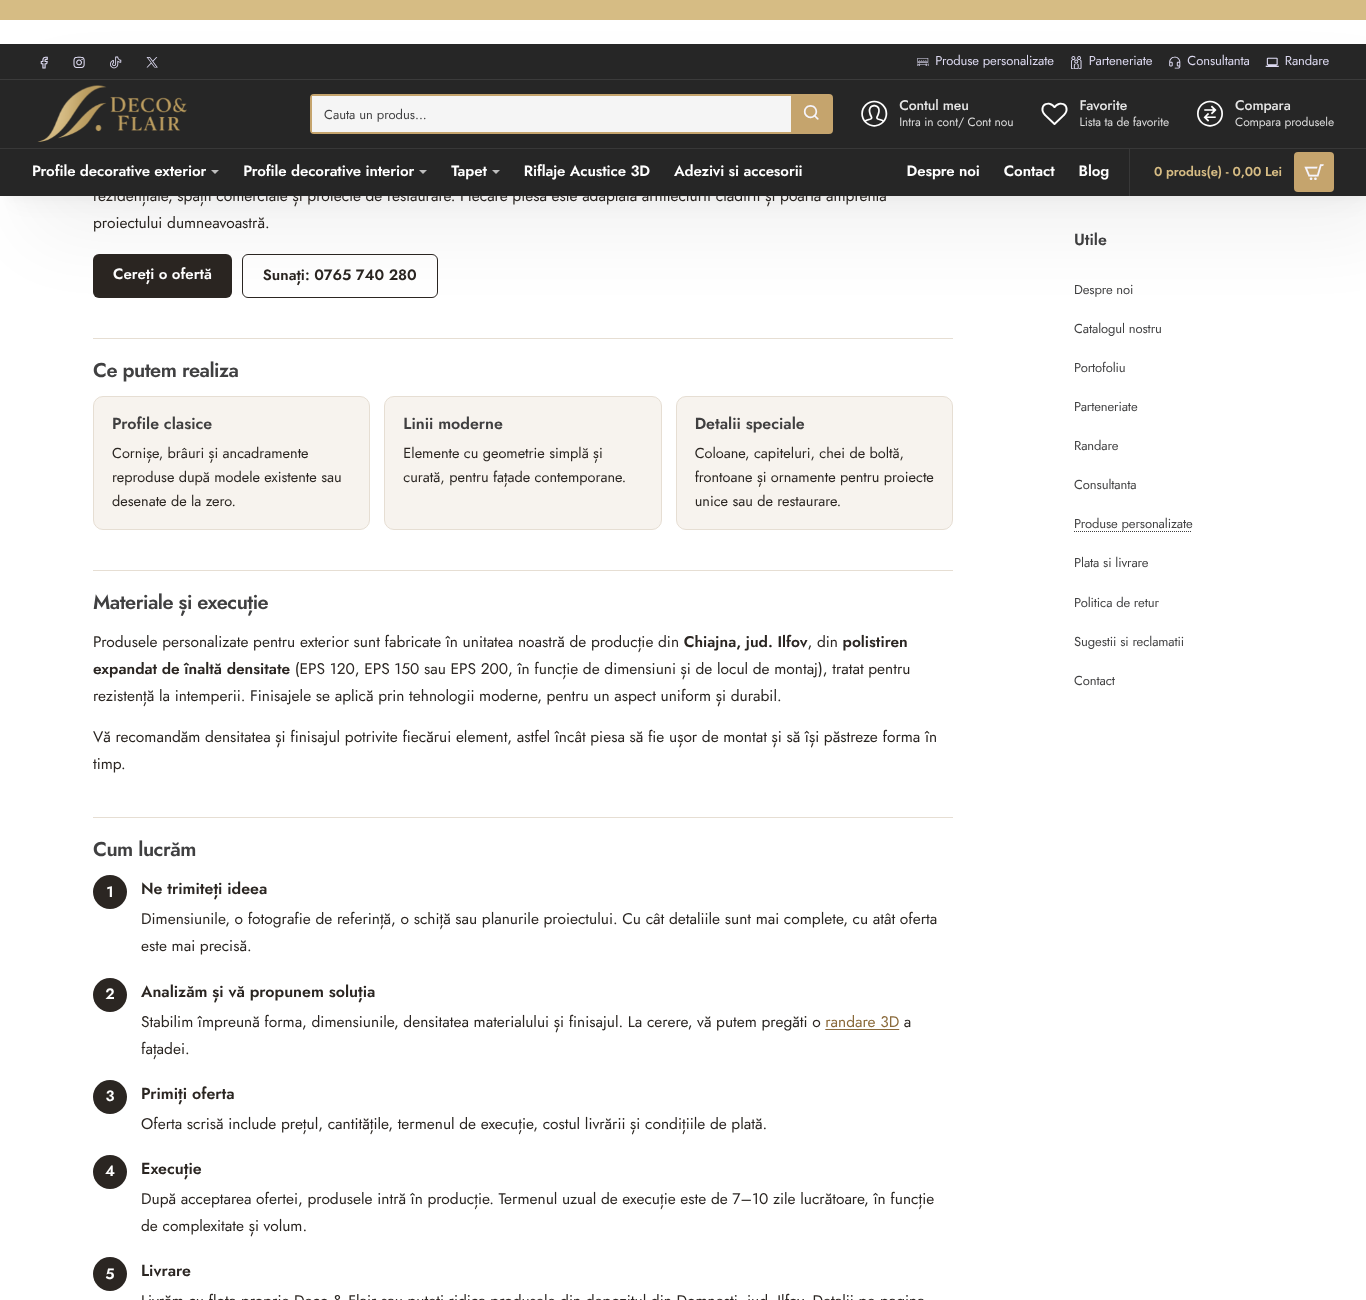
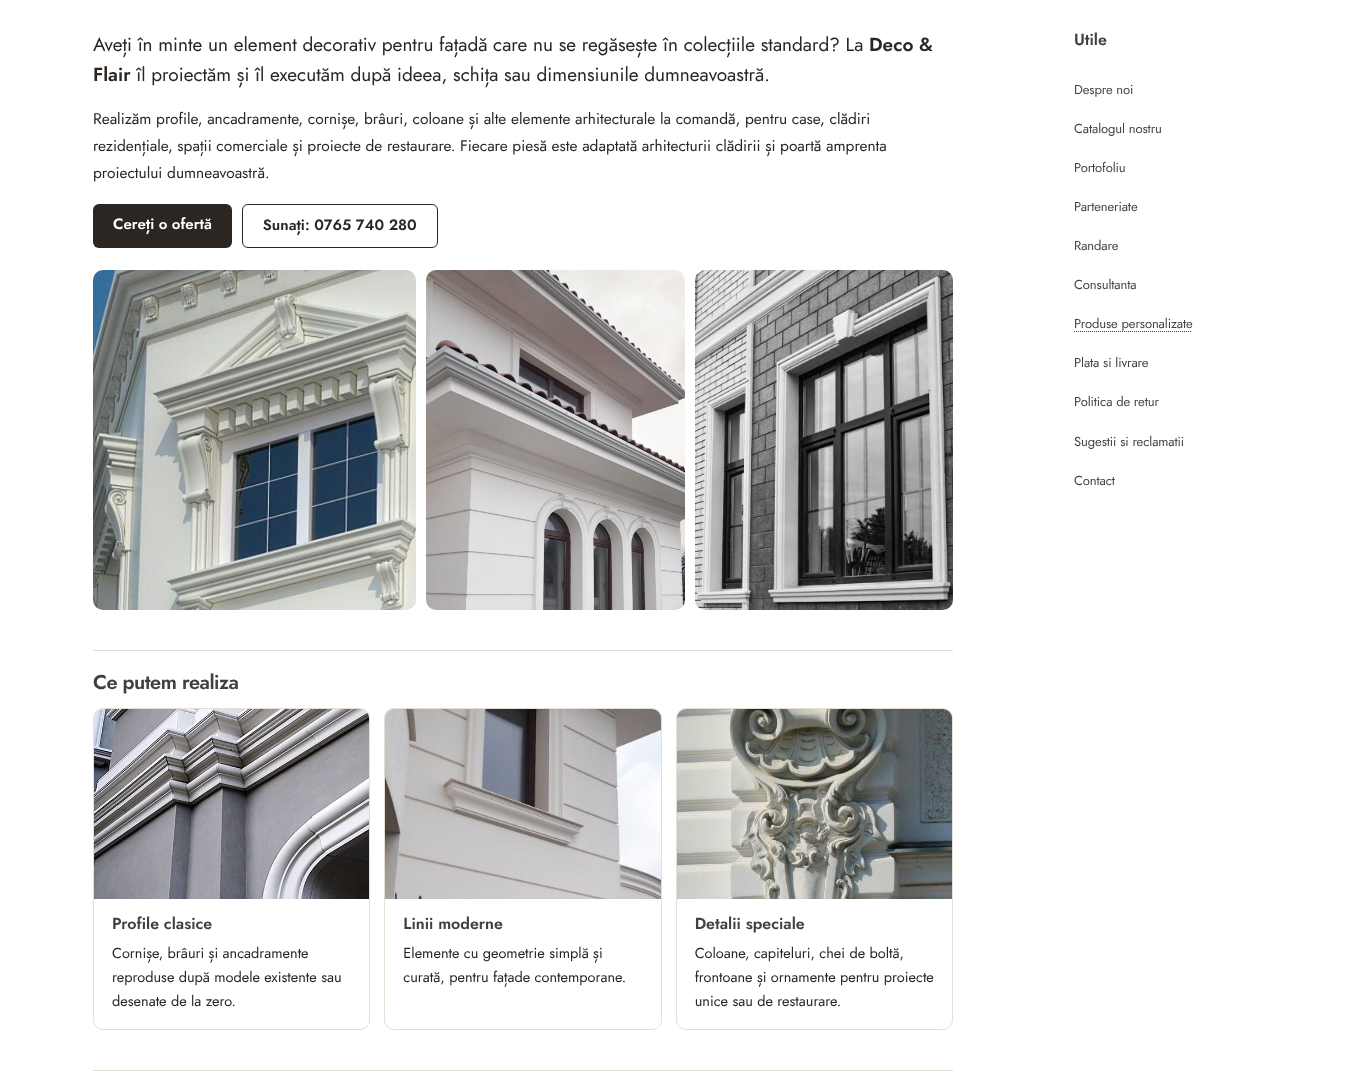
Produse personalizate: imagini din catalogul de exterior (colaj, carduri, galerie)
Claude-Session: https://claude.ai/code/session_01S369rekPyUEkSf6wTcLjCo

diff --git a/decoflair-termeni-conditii/produse-personalizate.html b/decoflair-termeni-conditii/produse-personalizate.html
@@ -28,7 +28,29 @@
 .df-pp .df-pp-box h2{border:0;margin:0 0 8px;padding:0}
 .df-pp .df-pp-box p{margin:0 0 6px}
 .df-pp .df-pp-small{font-size:13.5px;color:var(--df-muted)}
+.df-pp img{display:block;max-width:100%;height:auto}
+.df-pp .df-pp-hero{display:grid;grid-template-columns:1.25fr 1fr 1fr;gap:10px;margin:22px 0 6px}
+.df-pp .df-pp-hero figure,.df-pp .df-pp-gal figure{margin:0;overflow:hidden;border-radius:10px;background:var(--df-soft)}
+.df-pp .df-pp-hero img{width:100%;height:340px;object-fit:cover}
+.df-pp .df-pp-item.df-pp-has-img{padding:0;overflow:hidden;background:#fff}
+.df-pp .df-pp-item.df-pp-has-img img{width:100%;height:190px;object-fit:cover}
+.df-pp .df-pp-item.df-pp-has-img .df-pp-body{padding:14px 18px 16px}
+.df-pp .df-pp-split{display:grid;grid-template-columns:1fr 280px;gap:24px;align-items:start}
+.df-pp .df-pp-split img{width:100%;height:300px;object-fit:cover;border-radius:10px}
+.df-pp .df-pp-gal{display:grid;grid-template-columns:repeat(4,minmax(0,1fr));gap:10px;margin:6px 0 8px}
+.df-pp .df-pp-gal img{width:100%;height:200px;object-fit:cover;transition:transform .3s}
+.df-pp .df-pp-gal a:hover img{transform:scale(1.04)}
+.df-pp .df-pp-gal figcaption{font-size:13px;padding:7px 10px;color:var(--df-ink);background:#fff;border-top:1px solid var(--df-line)}
+.df-pp .df-pp-gal a{text-decoration:none;color:inherit;display:block}
 @media (max-width:640px){
+.df-pp .df-pp-hero{grid-template-columns:1fr 1fr}
+.df-pp .df-pp-hero figure:first-child{grid-column:1 / -1}
+.df-pp .df-pp-hero img{height:220px}
+.df-pp .df-pp-hero figure:first-child img{height:260px}
+.df-pp .df-pp-split{grid-template-columns:1fr}
+.df-pp .df-pp-split img{height:220px}
+.df-pp .df-pp-gal{grid-template-columns:repeat(2,minmax(0,1fr))}
+.df-pp .df-pp-gal img{height:150px}
 .df-pp .df-pp-lead{font-size:17.5px}
 .df-pp h2{font-size:18px;margin-top:32px}
 .df-pp .df-pp-grid,.df-pp .df-pp-grid.df-pp-three{grid-template-columns:1fr}
@@ -47,16 +69,27 @@
 <a class="df-pp-btn df-pp-ghost" href="tel:+40765740280">Sunați: 0765 740 280</a>
 </div>
 
+<div class="df-pp-hero">
+<figure><img src="https://decoflair.ro/image/catalog/category/fronton.jpg" alt="Fronton și ancadrament decorativ la fereastră, fațadă albă" loading="lazy"></figure>
+<figure><img src="https://decoflair.ro/image/catalog/category/termosistem%202.jpg" alt="Fațadă cu cornișe și ancadramente decorative din polistiren" loading="lazy"></figure>
+<figure><img src="https://decoflair.ro/image/catalog/category/cheie%20de%20bolta.jpg" alt="Cheie de boltă și ancadrament decorativ la fereastră" loading="lazy"></figure>
+</div>
+
 <h2>Ce putem realiza</h2>
 <div class="df-pp-grid df-pp-three">
-<div class="df-pp-item"><h3>Profile clasice</h3><p>Cornișe, brâuri și ancadramente reproduse după modele existente sau desenate de la zero.</p></div>
-<div class="df-pp-item"><h3>Linii moderne</h3><p>Elemente cu geometrie simplă și curată, pentru fațade contemporane.</p></div>
-<div class="df-pp-item"><h3>Detalii speciale</h3><p>Coloane, capiteluri, chei de boltă, frontoane și ornamente pentru proiecte unice sau de restaurare.</p></div>
+<div class="df-pp-item df-pp-has-img"><img src="https://decoflair.ro/image/catalog/category/brauri.jpg" alt="Brâuri și cornișe decorative clasice pe fațadă" loading="lazy"><div class="df-pp-body"><h3>Profile clasice</h3><p>Cornișe, brâuri și ancadramente reproduse după modele existente sau desenate de la zero.</p></div></div>
+<div class="df-pp-item df-pp-has-img"><img src="https://decoflair.ro/image/catalog/category/solbanc2.jpg" alt="Ancadrament modern cu solbanc, linii drepte" loading="lazy"><div class="df-pp-body"><h3>Linii moderne</h3><p>Elemente cu geometrie simplă și curată, pentru fațade contemporane.</p></div></div>
+<div class="df-pp-item df-pp-has-img"><img src="https://decoflair.ro/image/catalog/category/butaforie.jpg" alt="Ornament decorativ sculptat pentru fațadă" loading="lazy"><div class="df-pp-body"><h3>Detalii speciale</h3><p>Coloane, capiteluri, chei de boltă, frontoane și ornamente pentru proiecte unice sau de restaurare.</p></div></div>
 </div>
 
 <h2>Materiale și execuție</h2>
+<div class="df-pp-split">
+<div>
 <p>Produsele personalizate pentru exterior sunt fabricate în unitatea noastră de producție din <strong>Chiajna, jud. Ilfov</strong>, din <strong>polistiren expandat de înaltă densitate</strong> (EPS 120, EPS 150 sau EPS 200, în funcție de dimensiuni și de locul de montaj), tratat pentru rezistență la intemperii. Finisajele se aplică prin tehnologii moderne, pentru un aspect uniform și durabil.</p>
 <p>Vă recomandăm densitatea și finisajul potrivite fiecărui element, astfel încât piesa să fie ușor de montat și să își păstreze forma în timp.</p>
+</div>
+<img src="https://decoflair.ro/image/catalog/category/capitelii.jpg" alt="Coloane cu capiteluri decorative la intrarea unei case" loading="lazy">
+</div>
 
 <h2>Cum lucrăm</h2>
 <ol class="df-pp-steps">
@@ -75,6 +108,15 @@
 <li>localitatea în care se face livrarea;</li>
 <li>termenul dorit pentru finalizarea lucrării.</li>
 </ul>
+
+<h2>Inspirație</h2>
+<p>Câteva dintre elementele pe care le putem adapta sau reproduce la dimensiunile proiectului dumneavoastră:</p>
+<div class="df-pp-gal">
+<figure><a href="https://decoflair.ro/profile-decorative-exterior/ancadramente-ferestre"><img src="https://decoflair.ro/image/catalog/categorii%20produse/exterior/decoflair_ancadramente_ferestre_usi.jpg" alt="Ancadrament decorativ pentru ușă" loading="lazy"><figcaption>Ancadramente</figcaption></a></figure>
+<figure><a href="https://decoflair.ro/profile-decorative-exterior/arcade-decorative-din-polistiren-exterior"><img src="https://decoflair.ro/image/catalog/categorii%20produse/exterior/decoflair_arcade_decorative.jpg" alt="Arcadă decorativă cu pilaștri" loading="lazy"><figcaption>Arcade</figcaption></a></figure>
+<figure><a href="https://decoflair.ro/profile-decorative-exterior/cornisa-decorativa-exterior"><img src="https://decoflair.ro/image/catalog/category/cornisa5.jpg" alt="Cornișă decorativă de exterior" loading="lazy"><figcaption>Cornișe</figcaption></a></figure>
+<figure><a href="https://decoflair.ro/profile-decorative-exterior/coloane-decorative-exterior"><img src="https://decoflair.ro/image/catalog/category/coloane.jpg" alt="Coloane decorative albe" loading="lazy"><figcaption>Coloane</figcaption></a></figure>
+</div>
 
 <div class="df-pp-quote"><p>Dumneavoastră imaginați, noi proiectăm și executăm. Viziunea dumneavoastră devine detaliu arhitectural.</p></div>
 

diff --git a/decoflair-termeni-conditii/README.md b/decoflair-termeni-conditii/README.md
@@ -64,3 +64,4 @@ Păstrat: mesajul de deschidere, informațiile necesare pentru reclamație, răs
 
 Fișier de publicat: `produse-personalizate.html` (stil scopat `.df-pp`). Admin → Catalog → Informații → „Produse personalizate” → Cod sursă → înlocuiți tot → Salvare → Clear cache.
 Textul vechi (repetitiv, două introduceri) a fost condensat: intro + butoane „Cereți o ofertă” / telefon, Ce putem realiza (3 carduri), Materiale și execuție (Chiajna, EPS 120/150/200), Cum lucrăm (5 pași, execuție 7–10 zile lucrătoare ca pe Plata și livrare), ce trebuie trimis pentru ofertă, notă legală (fără drept de retragere, cu garanție de conformitate), caseta finală de ofertă. Telefon 0765 740 280.
+Imagini (adăugate ulterior): 11 fotografii deja existente pe server, din `image/catalog/category/` și `image/catalog/categorii produse/exterior/` (fronton, termosistem 2, cheie de boltă, brâuri, solbanc2, butaforie, capiteluri, ancadramente, arcade, cornișă5, coloane). Nu trebuie urcat nimic; dacă imaginile sunt redenumite sau șterse din catalog, pagina trebuie actualizată. Galeria „Inspirație” trimite către categoriile de exterior corespunzătoare.
